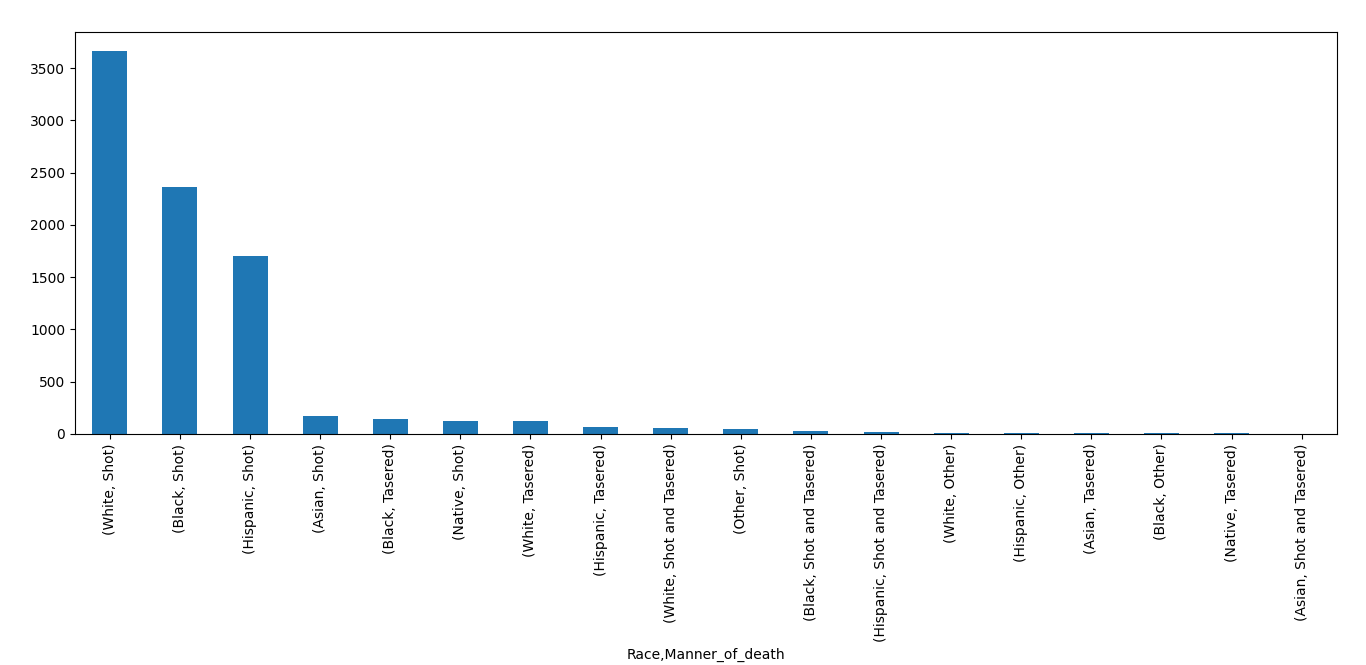
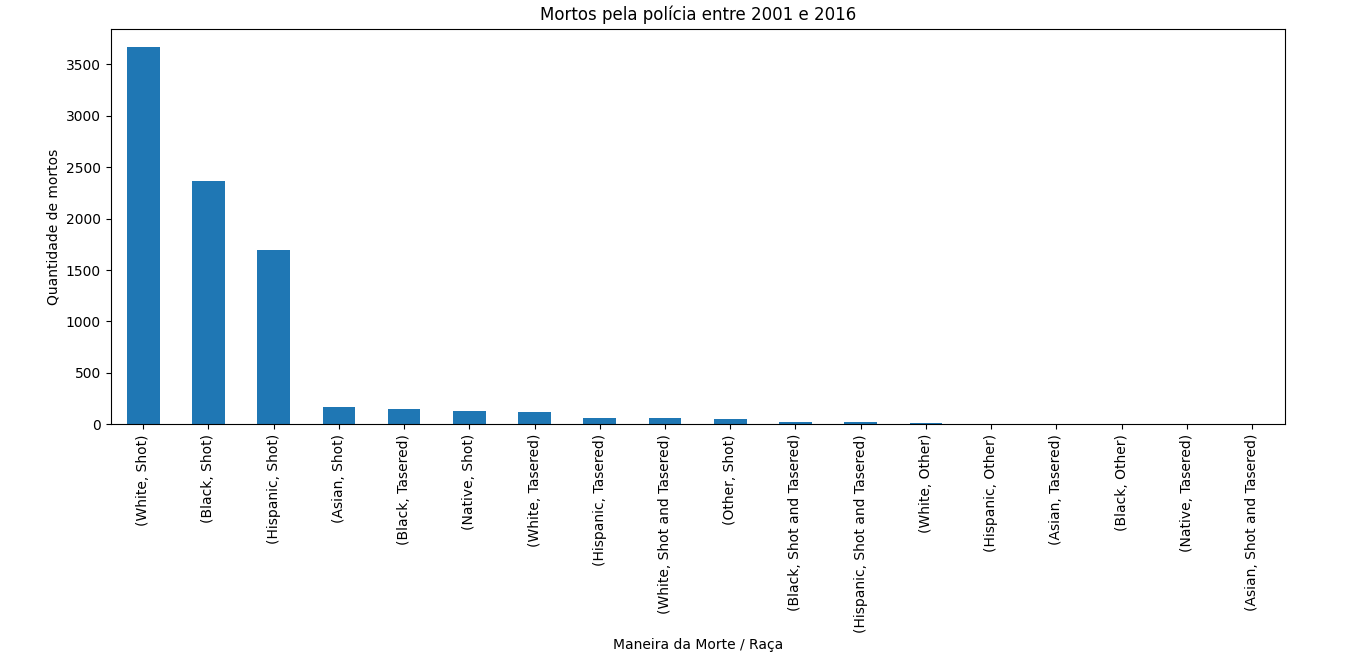
melhorias e aprendizado

diff --git a/police_pandas.py b/police_pandas.py
@@ -3,9 +3,9 @@ https://data.world/awram/us-police-involved-fatalities
 https://data.world/awram/us-police-involved-fatalities/workspace/file?filename=Police+Fatalities.csv
 '''
 import pandas as pd
-import matplotlib as plt
+import matplotlib.pyplot as plt
 # Realiza a leitura do arquivo armazenando na variável df (dataframe)
-df = pd.read_csv(r'Desktop\py_programas\testes\policefatal.csv')
+df = pd.read_csv(r'C:\Users\Priscila\Desktop\py_programas\testes\policefatal.csv')
 # Cria um Backup do Data Frame original
 df_backup = df.copy()
 # Converte em maiúscula as strings da coluna "Armed"
@@ -49,9 +49,12 @@ asian_mortes = asian.value_counts()
 nativo_mortes = nativo.value_counts()
 outro_mortes = outro.value_counts()
 
-# First Graphic
-morte_raca_numeros.plot(x = 'Maneira da morte', y = 'Quantidade', kind = 'bar')
-plt.show
+# First Graphic - Tem que ser nessa ordem
+morte_raca_numeros.plot(color='black', kind = 'bar')    
+plt.title("Mortos pela polícia entre 2001 e 2016")      # Define o título
+plt.xlabel("Maneira da Morte / Raça")                   # Define o rótulo do eixo X
+plt.ylabel("Quantidade de mortos")                      # Define o rótulo do eixo Y
+plt.show()                                              # Mostra o gráfico
 
 # VALUE_COUNTS() - Contar a incidência de elementos em uma coluna:
 print(df["Manner_of_death"].value_counts())
